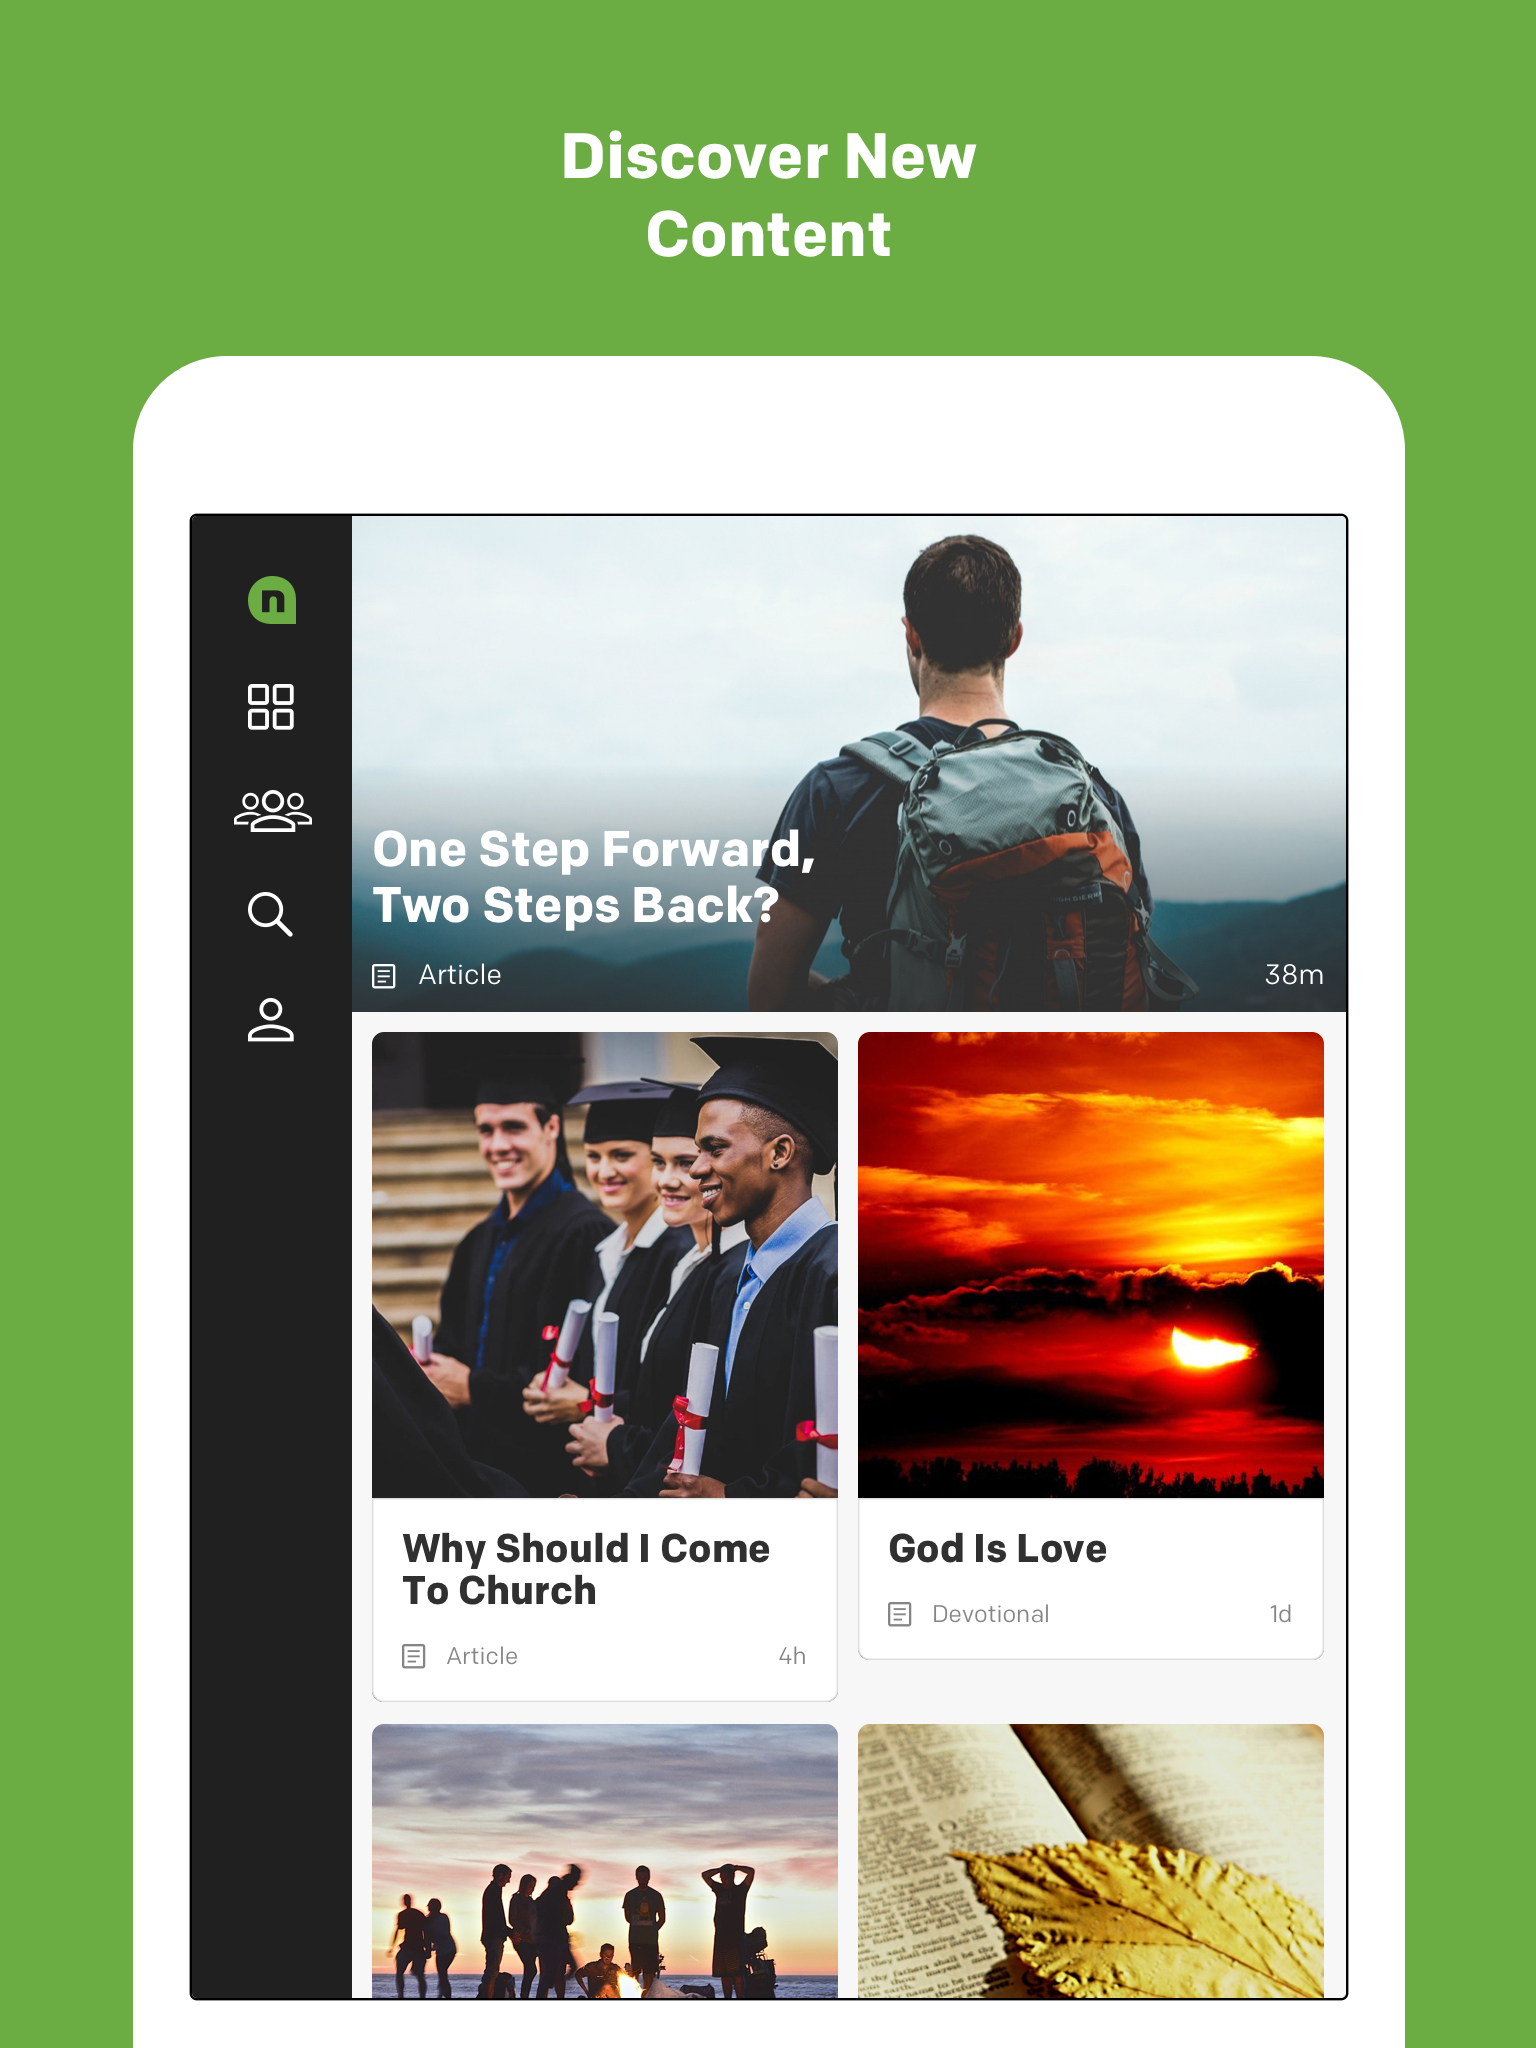
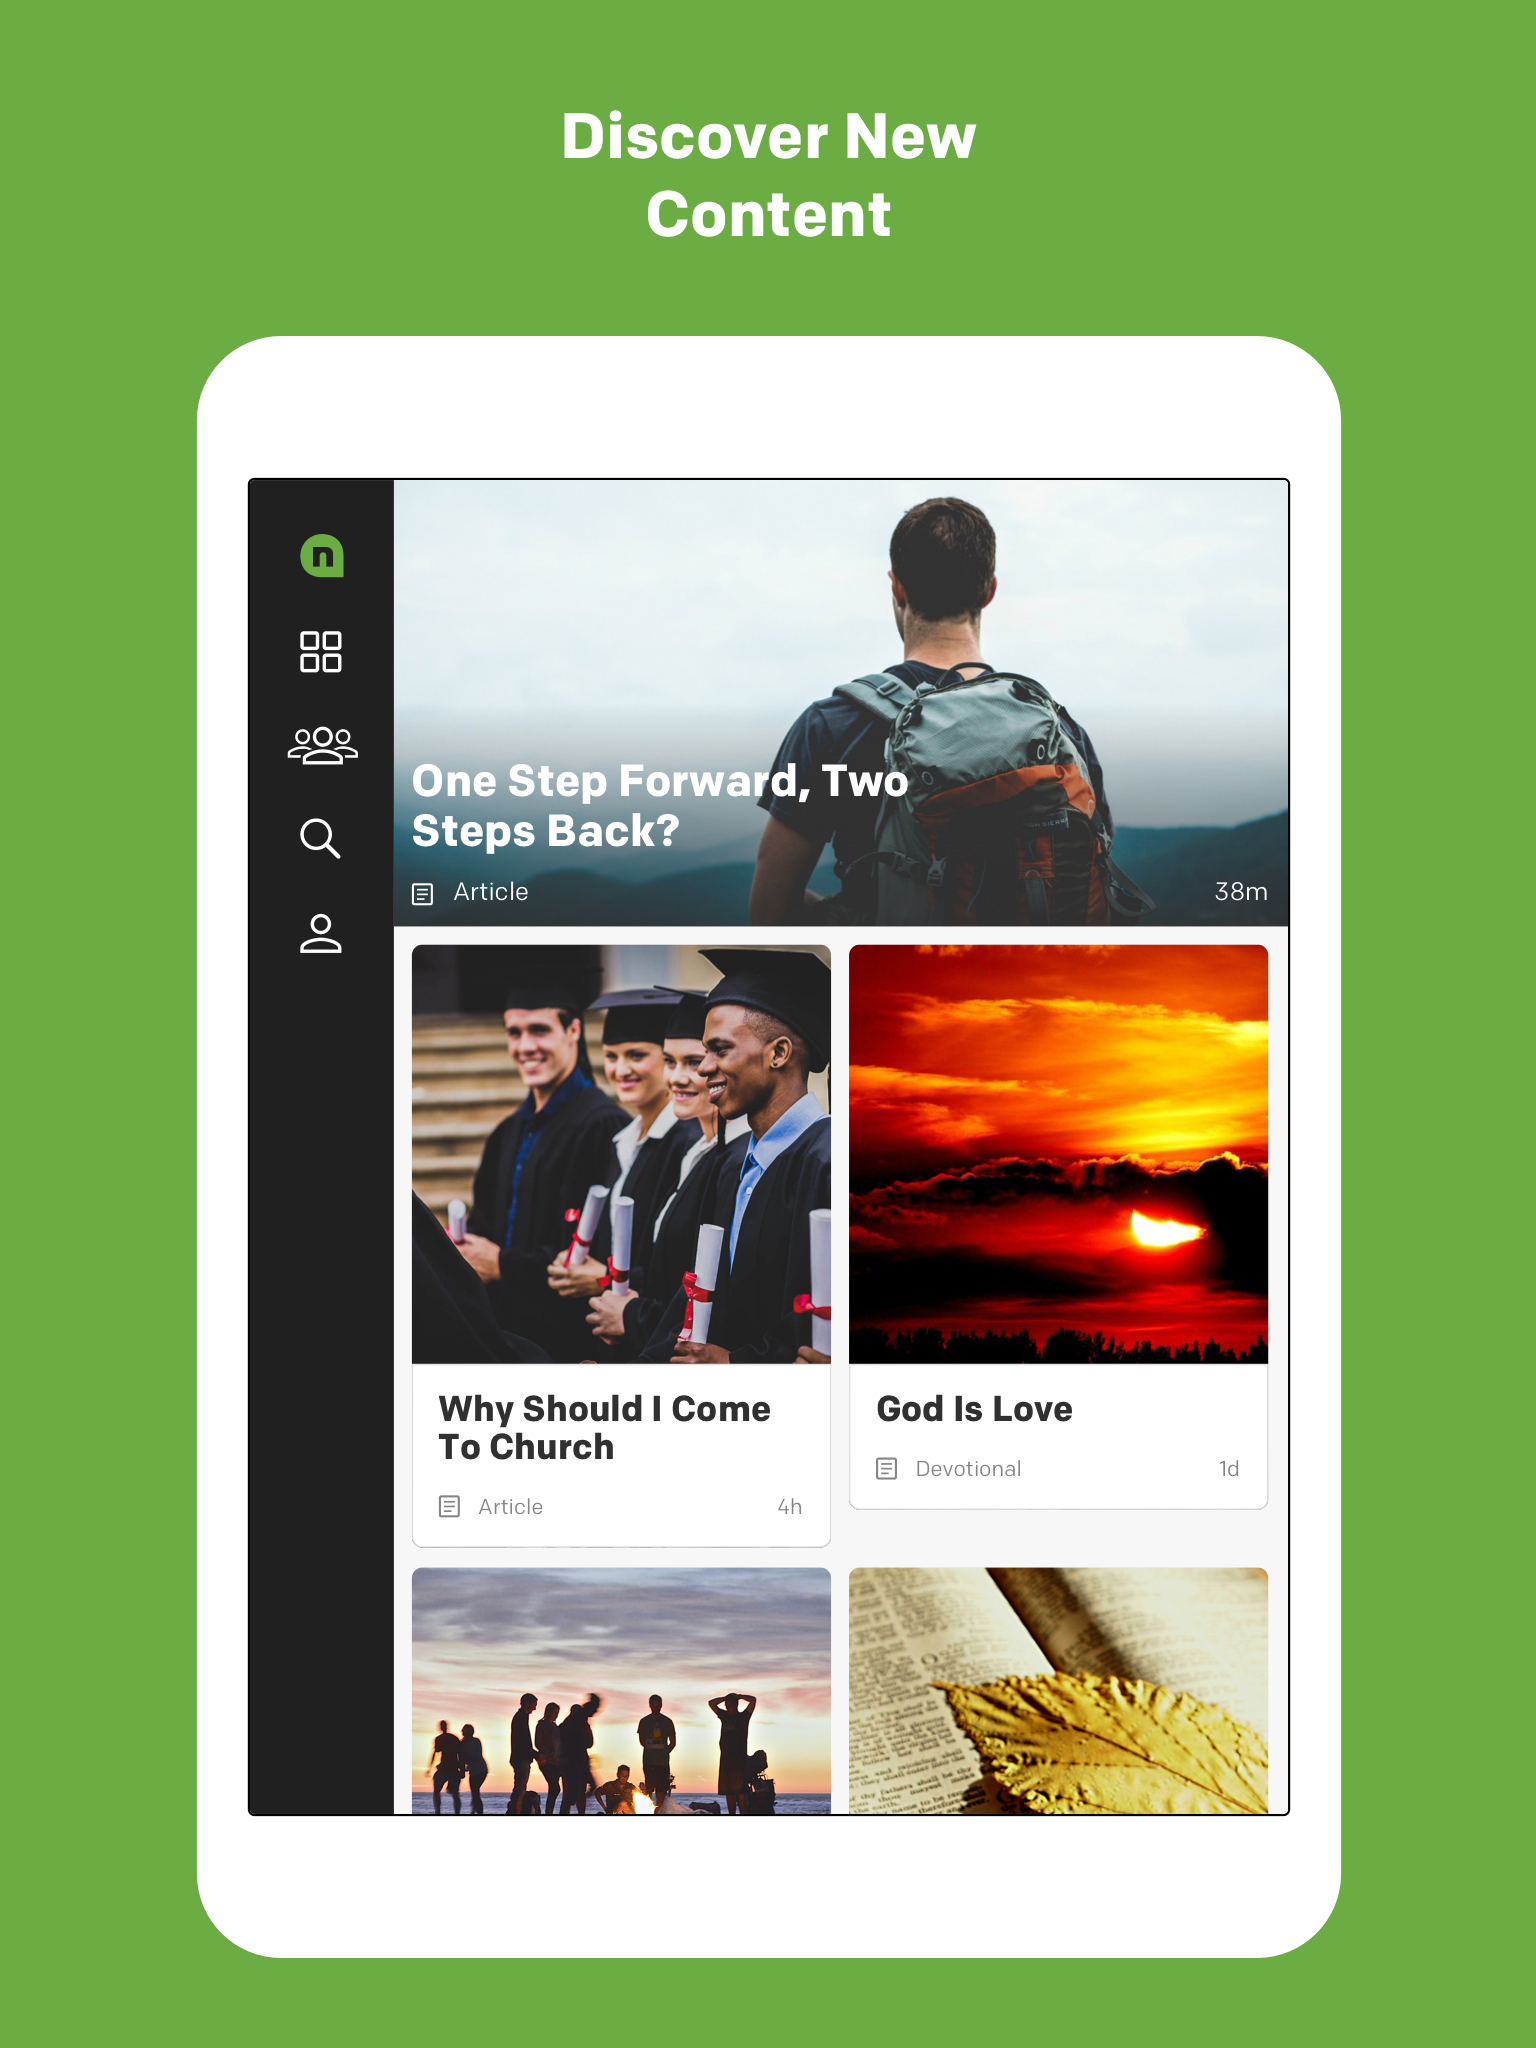
add green bg and new tablet welcome images

diff --git a/sites/newspring/imports/pages/welcome/index.jsx b/sites/newspring/imports/pages/welcome/index.jsx
@@ -48,7 +48,7 @@ class Welcome extends Component {
     const imagePrefix = window.innerWidth >= 480 ? "tablet" : "phone";
 
     return (
-      <div style={containerStyles}>
+      <div className="background--primary" style={containerStyles}>
         <Slider
           dots={true}
           arrows={false}
